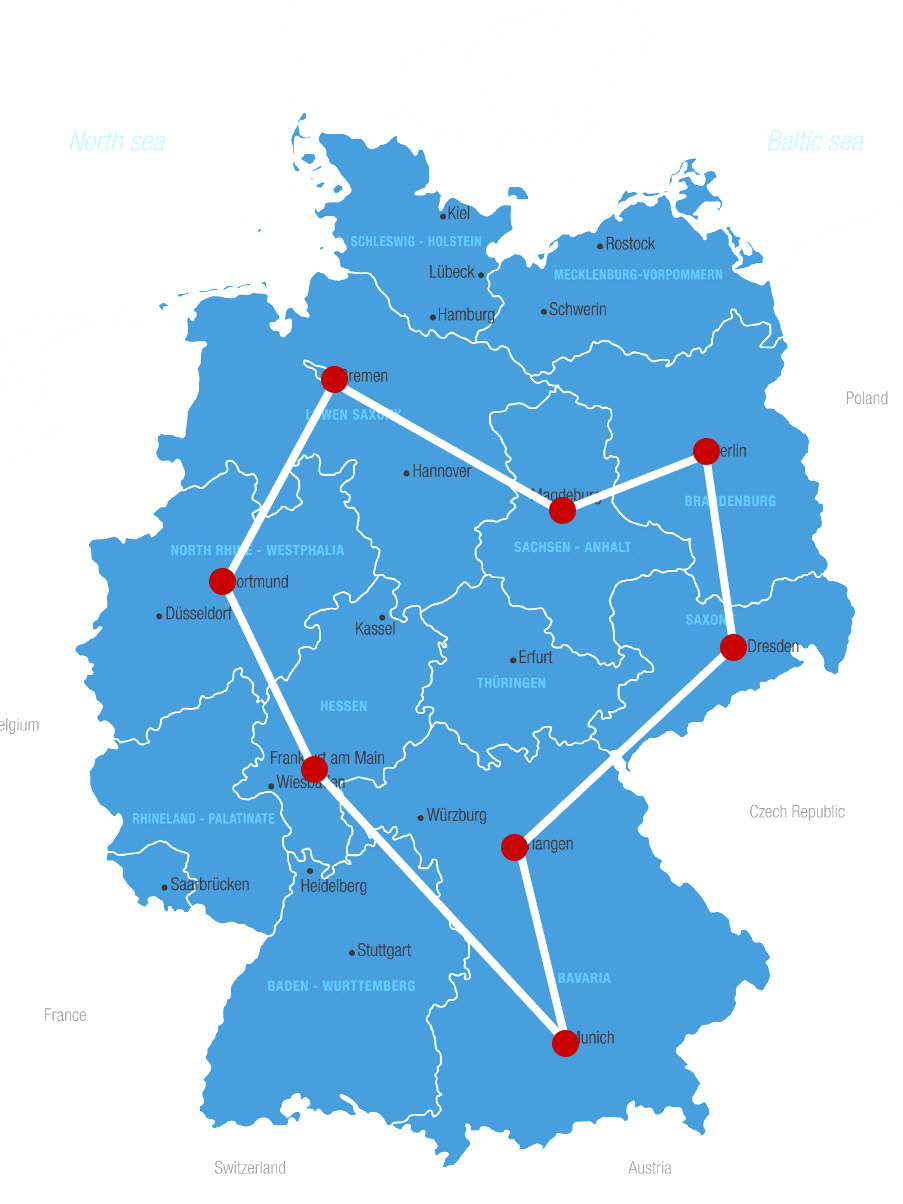
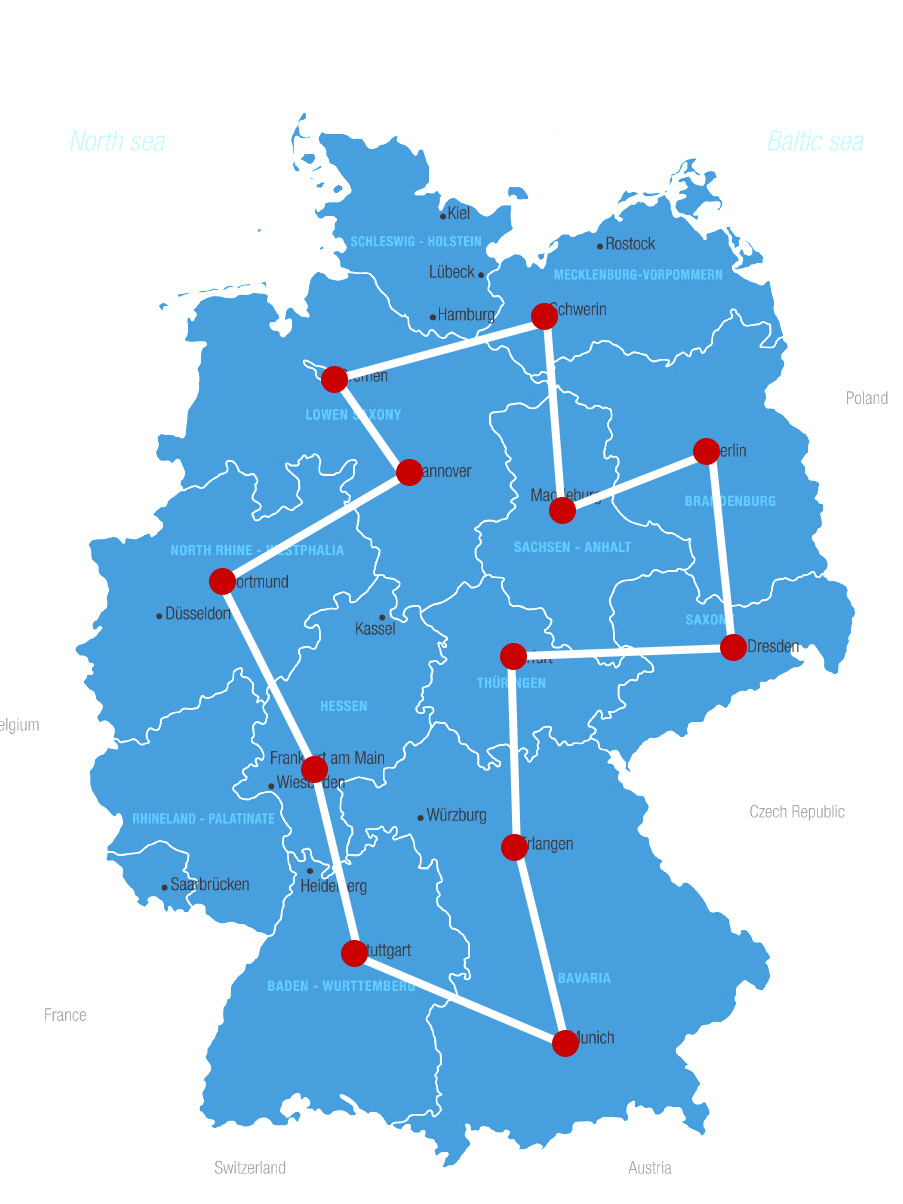
presentation

diff --git a/presentation/presentation.html b/presentation/presentation.html
@@ -233,6 +233,7 @@ if outside > 0 or overlapping > 0
                     </ul>
                 </aside>
             </section>
+
             <section>
                 <h2>Circles: <em>Implementation</em></h2>
                 <iframe src="../implementations/circles/circles.html" width="1000" height="900"></iframe>
@@ -274,12 +275,58 @@ if outside > 0 or overlapping > 0
             </section>
 
             <section>
-                <h3>Travelling Salesman Problem</h3>
+                <h3>Travelling Salesman</h3>
                 <div class="imageStack" style="width:450px;height:600px;margin: 0 auto">
                     <img data-src="img/germany.png" class="fragment">
                     <img data-src="img/germany2.png" class="fragment">
                     <img data-src="img/germany3.png" class="fragment">
                 </div>
+            </section>
+
+            <section>
+                <h2>TSP: <em>Trivial</em></h2>
+                <iframe src="../implementations/tsp/tspTrivial.html" width="1000" height="420"></iframe>
+
+                <div class="fragment">
+                    13 cities: (n - 1)! / 2 combinations<br>
+                    -&gt; 239500800 possible solutions<br>
+                    @ 10k tests every second: 6.6h
+                </div>
+            </section>
+
+            <section>
+                <h2>Travelling Salesman</h2>
+
+                Possible Way:<br>
+                1 -&gt; 2 -&gt; 3 -&gt; 4 -&gt; 5 -&gt; 1<br>
+                <br>
+                <div class="fragment">
+                    Parents:<br>
+                    <span style="color:green">5</span> -&gt; <span style="color:green">3</span> -&gt; <span style="color:green">1</span> -&gt; <span style="color:green">4</span> -&gt; <span style="color:green">2</span> -&gt; <span style="color:green">5</span><br>
+                    <span style="color:blue">2</span> -&gt; <span style="color:blue">4</span> -&gt; <span style="color:blue">5</span> -&gt; <span style="color:blue">3</span> -&gt; <span style="color:blue">1</span> -&gt; <span style="color:blue">2</span><br>
+                    <br>
+                </div>
+
+                <div class="fragment">
+                    Child:<br>
+                    <span style="color:green">5</span> -&gt; <span style="color:blue">4</span> -&gt; <span style="color:green">1</span> -&gt; <span style="color:blue">3 </span>-&gt; <span style="color:green">2</span> -&gt; <span style="color:green">5</span><br>
+                    <br>
+                </div>
+
+                <div class="fragment">
+                    Mutation<br>
+                    <span style="color:green">5</span> -&gt; <span style="color:blue">4</span> -&gt; <span style="color:green">1</span> -&gt; <span style="color:red">2</span> -&gt; <span style="color:red">3</span> -&gt; <span style="color:green">5</span><br>
+                </div>
+            </section>
+
+            <section>
+                <h2>Travelling Salesman</h2>
+                Fitness: The complete length of a way
+            </section>
+
+            <section>
+                <h2>Travelling Salesman</h2>
+                <iframe src="../implementations/tsp/tsp.html" width="1000" height="900"></iframe>
             </section>
         </div>
     </div>

diff --git a/src/js/scenarios/tsp/tsp.js b/src/js/scenarios/tsp/tsp.js
@@ -9,9 +9,13 @@ function Tsp(canvasId, options) {
         options.interval = 1;
     }
 
-    this._printer = new Printer(canvasId, options);
-    this._algorithm = new TspAlgorithm(options);
     this._options = options;
+    this._canvasId = canvasId;
+
+    this._printer = null;
+    this._algorithm = null;
+
+    this._setup();
 }
 
 Tsp.prototype.addCity = function (x, y) {
@@ -21,6 +25,21 @@ Tsp.prototype.addCity = function (x, y) {
     this._algorithm.addCity(x, y);
 
     return this;
+};
+
+Tsp.prototype._setup = function() {
+    this._printer = new Printer(this._canvasId, this._options);
+    this._algorithm = new TspAlgorithm(this._options);
+};
+
+Tsp.prototype.reset = function() {
+    this._algorithm.terminate();
+    this._setup();
+};
+
+Tsp.prototype.restart = function() {
+    this.reset();
+    this.run();
 };
 
 Tsp.prototype.run = function () {

diff --git a/implementations/tsp/tsp.html b/implementations/tsp/tsp.html
@@ -32,13 +32,19 @@
             $('#calc').click(function () {
                 tsp.run();
             });
+
+            $('#restart').click(function () {
+                tsp.restart();
+            });
         });
     </script>
 
 </head>
 <body>
-    <canvas id="tspCanvas"></canvas>
-    <br>
-    <input type="button" id="calc" value="calc"><br>
+    <div style="width:400px;margin:0 auto">
+        <canvas id="tspCanvas"></canvas>
+        <br>
+        <input type="button" id="calc" value="calc"> <input type="button" id="restart" value="restart">
+    </div>
 </body>
 </html>

diff --git a/implementations/tsp/tspTrivial.html b/implementations/tsp/tspTrivial.html
@@ -42,8 +42,10 @@
     </script>
 </head>
 <body>
-    <canvas id="trivialCanvas"></canvas>
-    <br>
-    <input type="button" id="calc" value="calc"><br>
+    <div style="width:400px;margin:0 auto">
+        <canvas id="trivialCanvas"></canvas>
+        <br>
+        <input type="button" id="calc" value="calc"><br>
+    </div>
 </body>
 </html>
